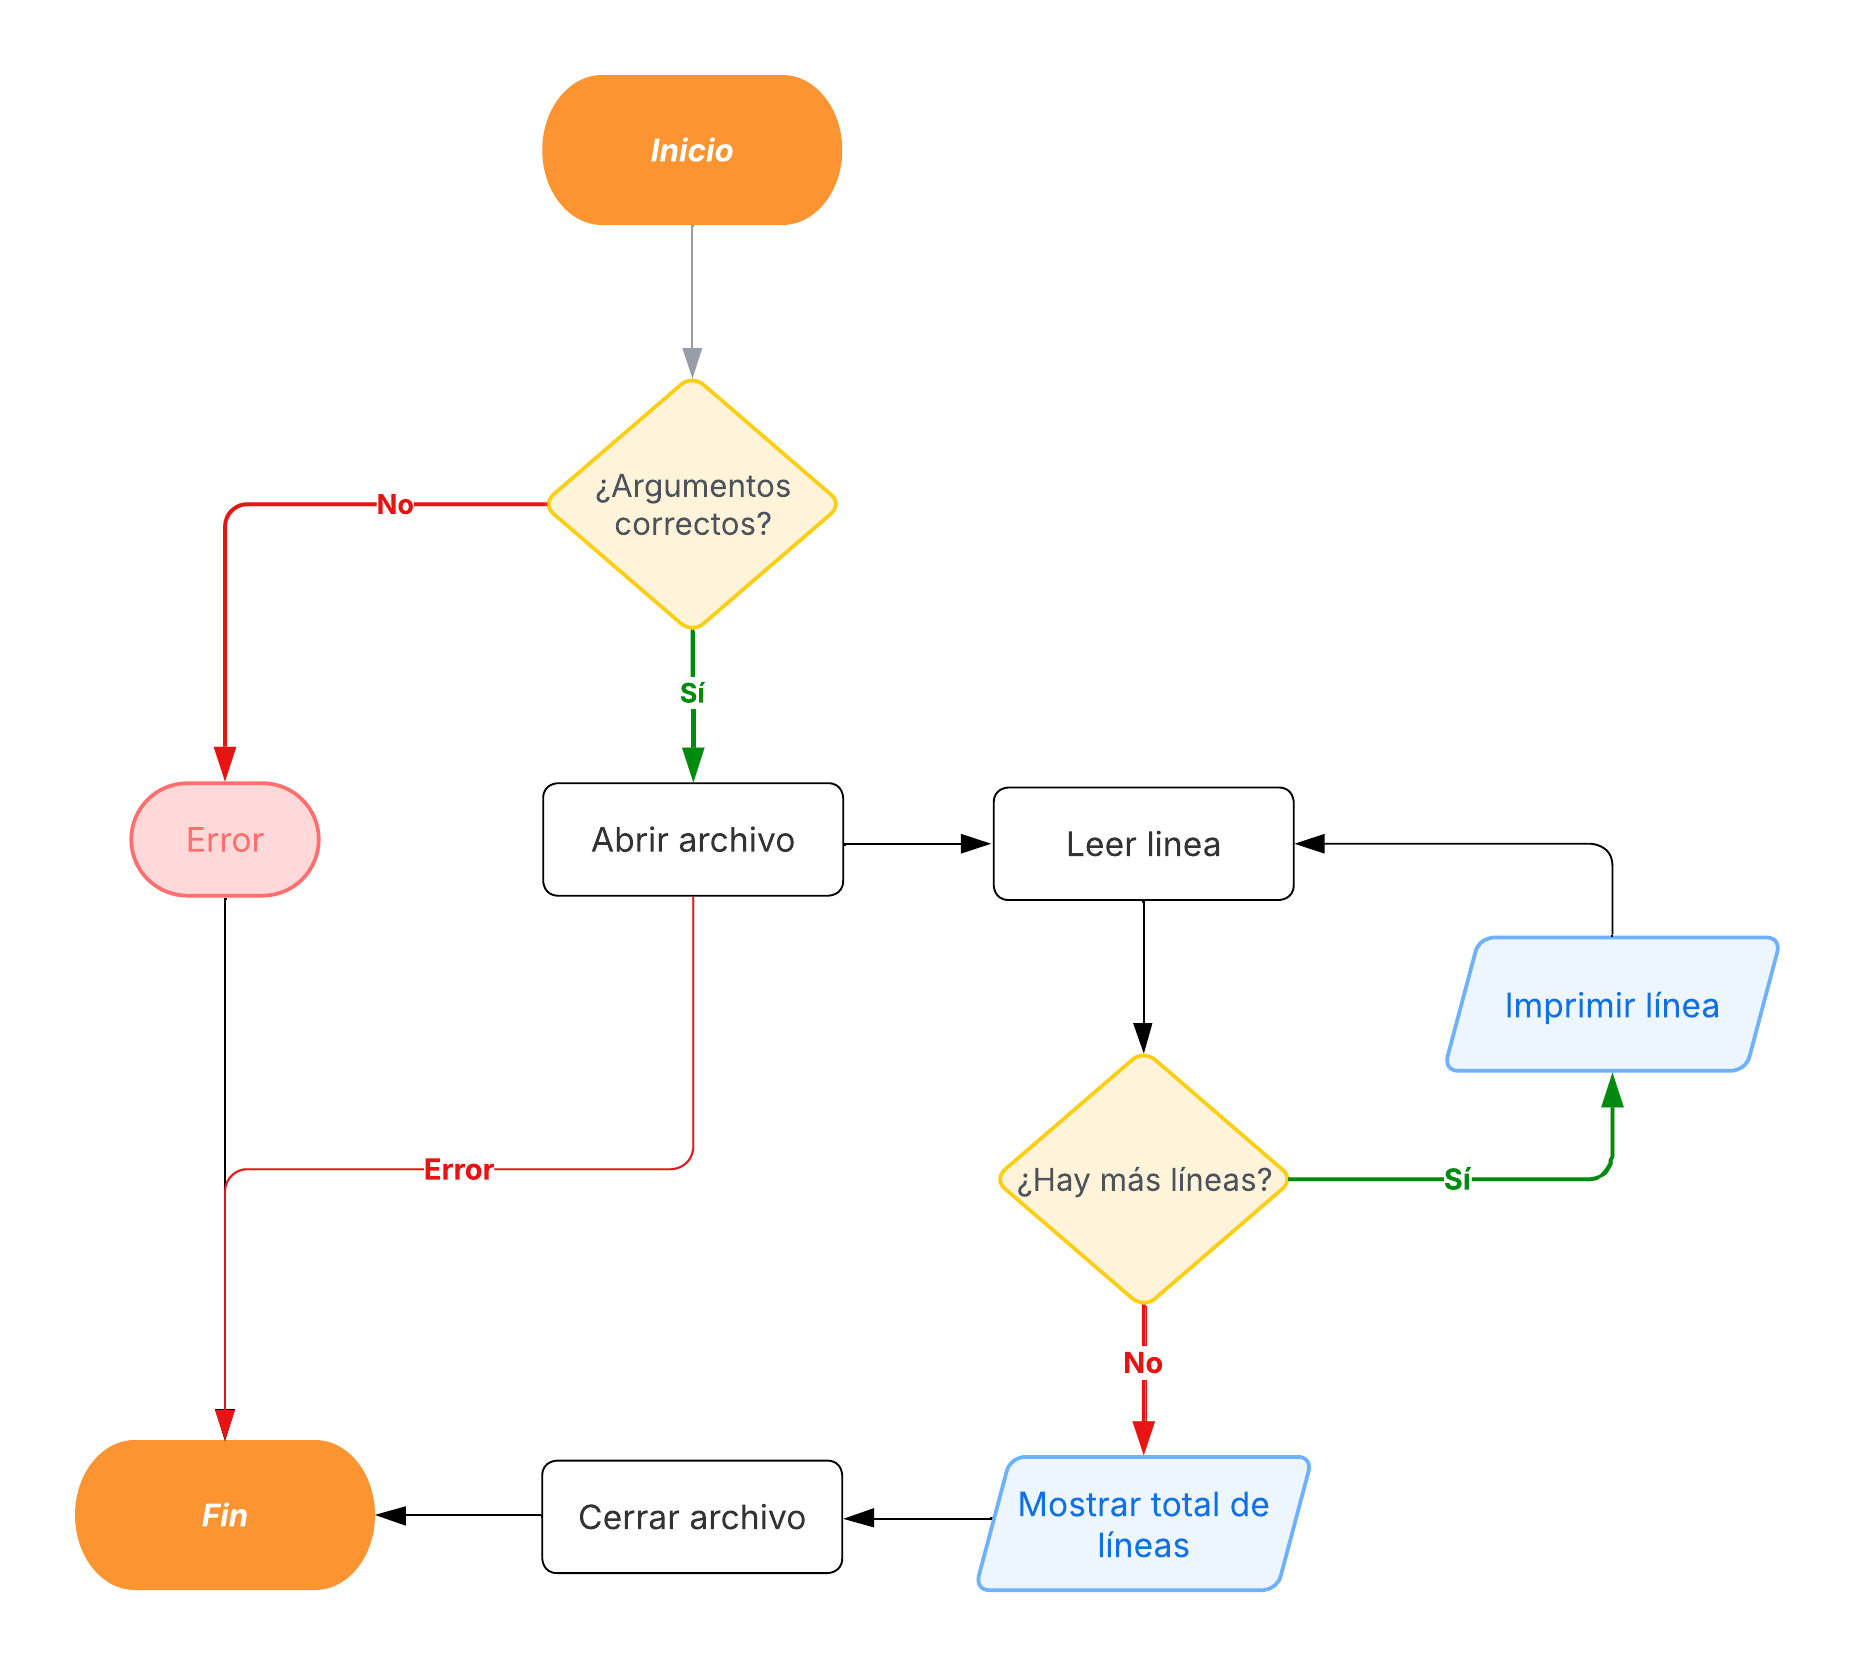
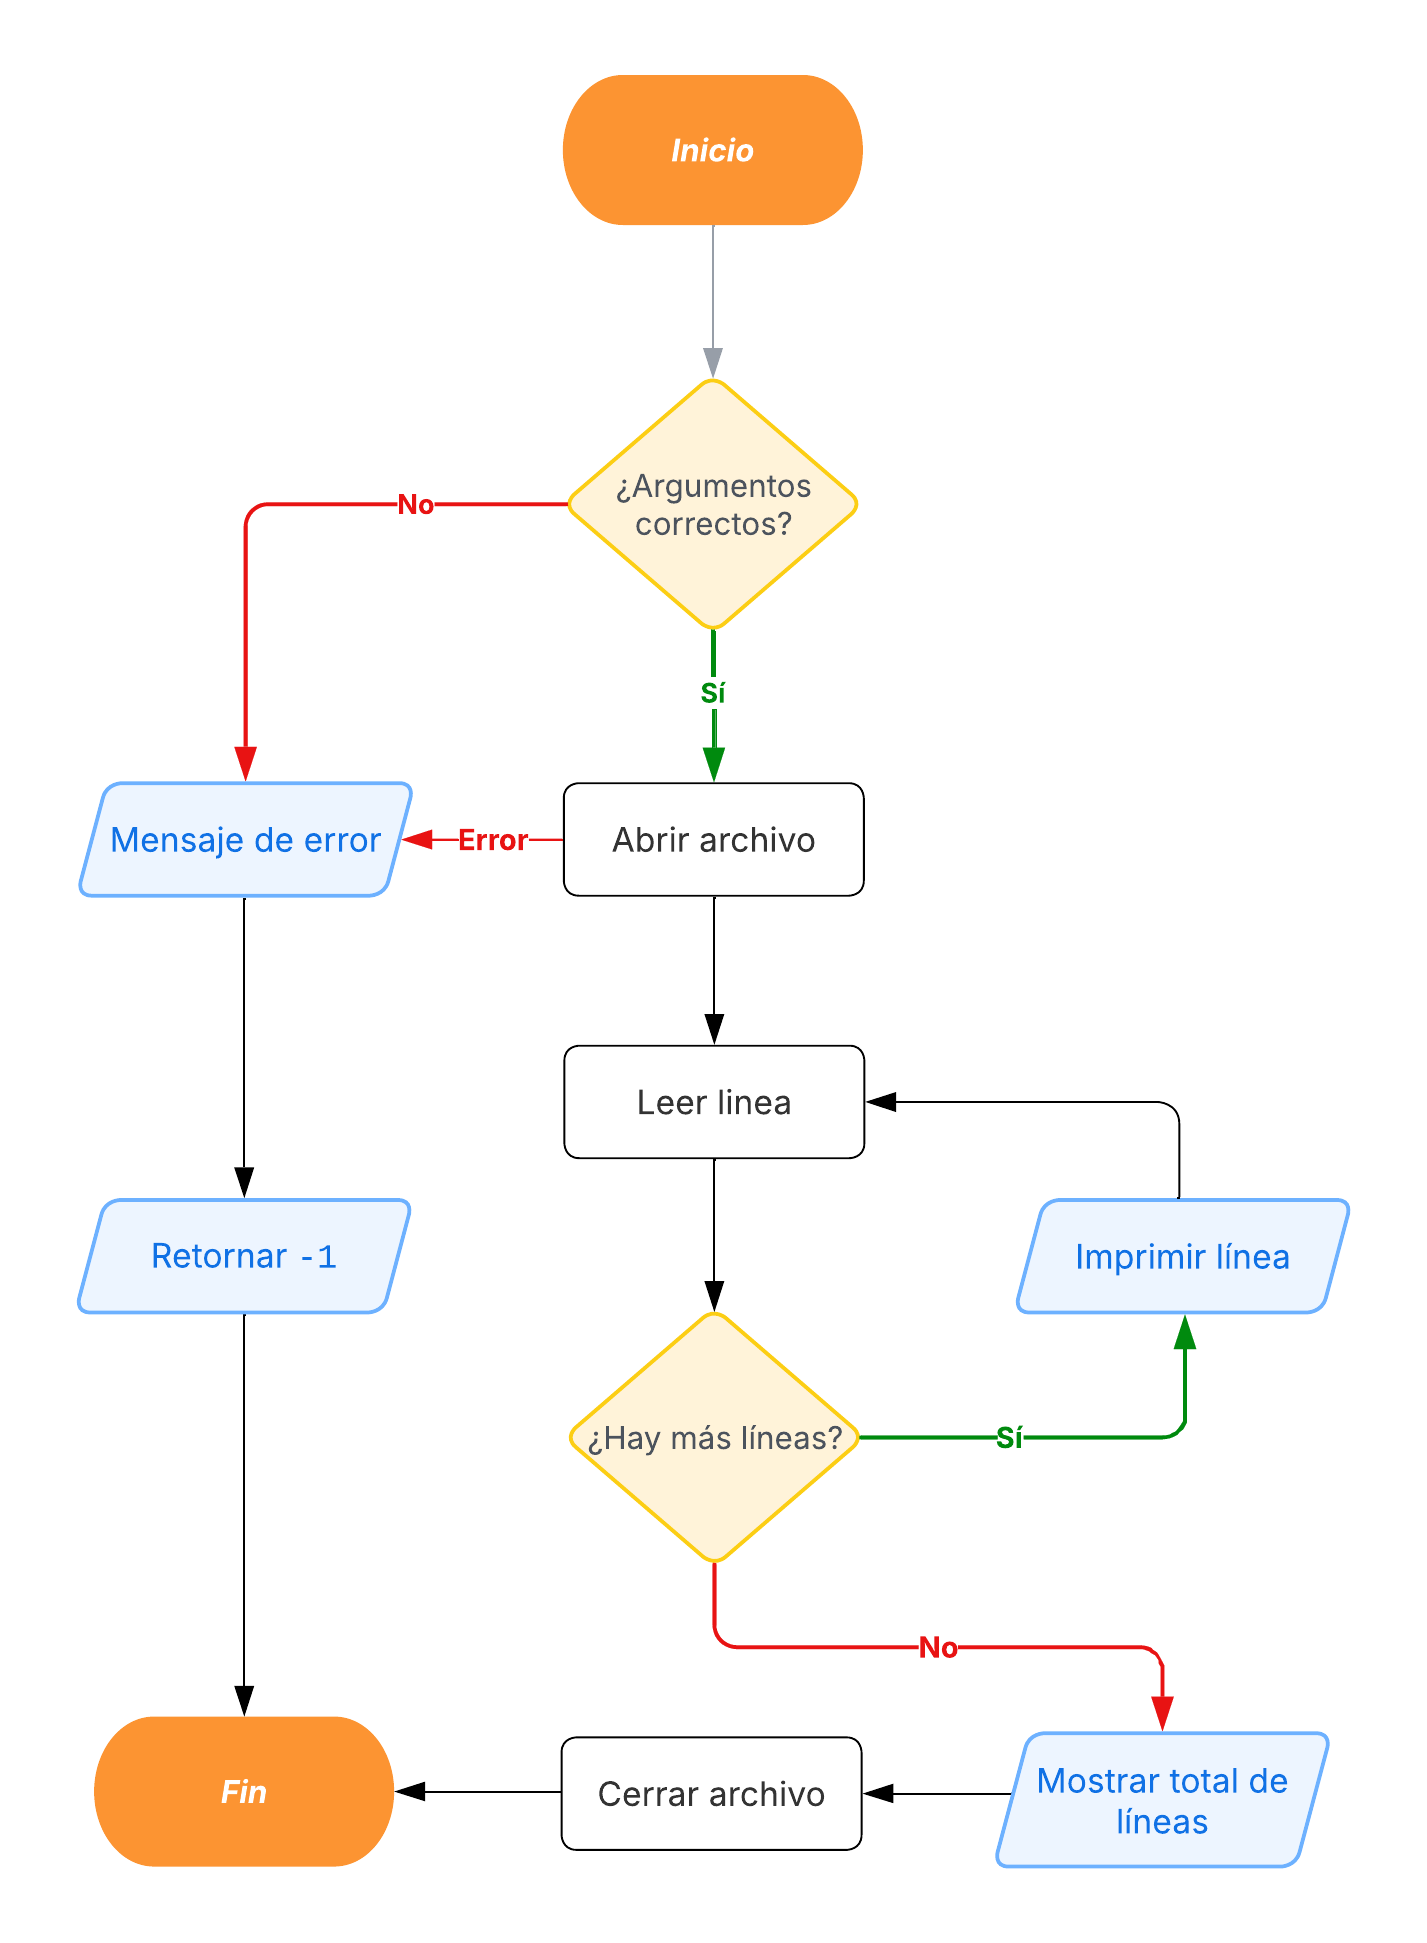
Implemento todos los diagramas del informe

diff --git a/TP0/README.md b/TP0/README.md
@@ -25,29 +25,51 @@ valgrind ./tp0 <nombre_archivo>
 ##  Funcionamiento
 El programa comienza verificando los argumentos proporcionados en la línea de comandos. Se comprueba si se ha pasado el nombre de un archivo como argumento. En caso de que no se proporcione, se muestra un mensaje de error y el programa finaliza inmediatamente.
 
-A continuación, se intenta abrir el archivo llamando a la función `archivo_abrir(nombre)`. Si el archivo no se puede abrir, se imprime un mensaje de error y el programa termina sin continuar con el resto de las operaciones. Si la apertura es exitosa, el programa procede con la lectura del contenido del archivo.
+A continuación, se intenta abrir el archivo llamando a la función `archivo_abrir()`. Si el archivo no se puede abrir, se imprime un mensaje de error y el programa termina sin continuar con el resto de las operaciones. Si la apertura es exitosa, el programa procede con la lectura del contenido del archivo.
 
-El siguiente paso es la lectura de líneas del archivo. Se inicia un bucle for que se ejecuta mientras `archivo_hay_mas_lineas(archivo)` devuelva 1, lo que indica que aún quedan líneas por leer. En cada iteración del bucle, se llama a `archivo_leer_linea(archivo)` para obtener la siguiente línea disponible. La línea obtenida se imprime en la salida estándar junto con su número de línea, lo que permite visualizar el contenido del archivo procesado de manera ordenada.
+El siguiente paso es la lectura de líneas del archivo. Se inicia un bucle for que se ejecuta mientras `archivo_hay_mas_lineas()` devuelva 1, lo que indica que aún quedan líneas por leer. En cada iteración del bucle, se llama a `archivo_leer_linea()` para obtener la siguiente línea disponible. La línea obtenida se imprime en la salida estándar junto con su número de línea, lo que permite visualizar el contenido del archivo procesado de manera ordenada.
 
-Después de finalizar la lectura, el programa imprime la cantidad total de líneas leídas. Para esto, se invoca la función `archivo_lineas_leidas(archivo)`, la cual devuelve el número de líneas que han sido procesadas hasta el momento. Esta información se muestra en la salida estándar antes de proceder al cierre del archivo.
+Después de finalizar la lectura, el programa imprime la cantidad total de líneas leídas. Para esto, se invoca la función `archivo_lineas_leidas()`, la cual devuelve el número de líneas que han sido procesadas hasta el momento. Esta información se muestra en la salida estándar antes de proceder al cierre del archivo.
 
-Finalmente, se llama a la función `archivo_cerrar(archivo)`, la cual libera toda la memoria reservada y cierra correctamente el archivo abierto. Una vez que se ha completado esta operación, el programa retorna 0, indicando que se ha ejecutado correctamente y ha finalizado sin errores.
+Finalmente, se llama a la función `archivo_cerrar()`, la cual libera toda la memoria reservada y cierra correctamente el archivo abierto. Una vez que se ha completado esta operación, el programa retorna 0, indicando que se ha ejecutado correctamente y ha finalizado sin errores.
 
-![Diagrama de flujo general del programa](img/Diagrama_general.png)
+<div align="center">
+	<img src="img/Diagrama_general.png" alt="Diagrama de flujo general del programa" width="500"/>
+</div>
 
 ###  Funciones implementadas en el módulo `archivo.c`:
 
 #### `archivo_abrir()`
 Es responsable de abrir un archivo de texto en modo lectura y devolver un puntero a una estructura `Archivo`. Para lograr esto, primero se reserva memoria para la estructura `Archivo`. Luego, se intenta abrir el archivo utilizando `fopen()`. Si esta operación falla, se libera la memoria previamente reservada y se retorna `NULL` como indicación de error. En caso de éxito, se inicializan los valores de la estructura, estableciendo `lineas_leidas` en `0` y `ultima_linea` en `NULL`, y finalmente se devuelve el puntero a la estructura `Archivo`.
 
+<div align="center">
+	<img src="img/Diagrama_archivo_abrir().png" alt="Diagrama de flujo función archivo_abrir()" width="500"/>
+</div>
+
 #### `archivo_leer_linea()`
 Permite leer una línea del archivo y devolverla en forma de cadena de caracteres. Antes de leer una nueva línea, se libera la memoria de la última línea almacenada, en caso de existir. Se reserva una cantidad inicial de memoria para la línea a leer y, mediante un bucle que emplea `fgetc()`, se van obteniendo caracteres del archivo hasta encontrar un salto de línea (`\n`) o el final del archivo (`EOF`). En caso de que la línea supere la memoria asignada, se realoca más espacio dinámicamente en una cantidad constante de 10 bytes. Una vez completada la lectura, la línea obtenida se almacena en `ultima_linea` y se incrementa el contador de líneas leídas. Finalmente, la función retorna la línea leída o `NULL` si no hay más contenido en el archivo.
+
+<div align="center">
+	<img src="img/Diagrama_archivo_leer_linea().png" alt="Diagrama de flujo función archivo_leer_linea()" width="500"/>
+</div>
 
 #### `archivo_hay_mas_lineas()`
 Permite determinar si quedan más líneas por leer en el archivo. Para ello, se obtiene la posición actual del archivo utilizando `ftell()`. A continuación, se lee un carácter con `fgetc()` para verificar si hay más contenido disponible. Si el carácter obtenido es `EOF`, se concluye que no quedan más líneas y se devuelve `0`. En caso contrario, se retorna `1` y se restablece la posición original del archivo con `fseek()` para no alterar el flujo de lectura.
 
+<div align="center">
+	<img src="img/Diagrama_archivo_hay_mas_lineas().png" alt="Diagrama de flujo función archivo_hay_mas_lineas()" width="500"/>
+</div>
+
 #### `archivo_lineas_leidas()`
 Proporciona la cantidad de líneas que han sido leídas hasta el momento. Si el archivo recibido como parámetro es `NULL`, la función retorna `0`. De lo contrario, se devuelve el valor almacenado en `lineas_leidas` dentro de la estructura `Archivo`, lo que permite obtener un seguimiento de la cantidad de líneas procesadas.
 
+<div align="center">
+	<img src="img/Diagrama_archivo_lineas_leidas().png" alt="Diagrama de flujo función archivo_lineas_leidas()" width="500"/>
+</div>
+
 #### `archivo_cerrar()`
 Se encarga de cerrar el archivo y liberar toda la memoria reservada. Si el puntero archivo no es `NULL`, se procede a cerrar el archivo utilizando `fclose()` en caso de que estuviera abierto. También se libera la memoria de la última línea almacenada, si existía, y finalmente se libera la estructura `Archivo`.
+
+<div align="center">
+	<img src="img/Diagrama_archivo_cerrar().png" alt="Diagrama de flujo función archivo_cerrar()" width="500"/>
+</div>
